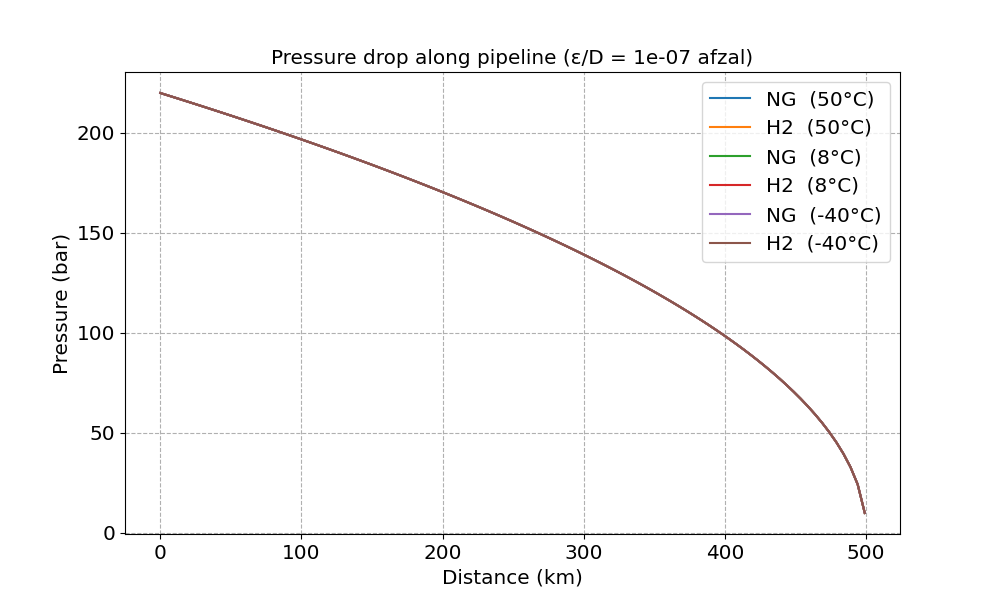
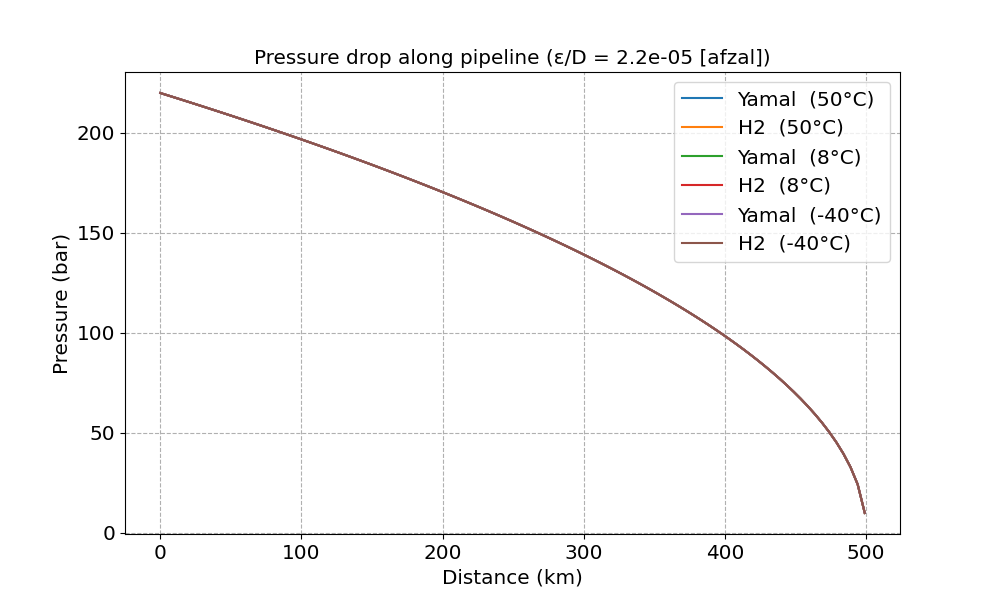
starting to do Yamal pipeline

Changed region(s): [[0.682, 0.15, 0.899, 0.42], [0.248, 0.06, 0.775, 0.12]]

diff --git a/moody.py b/moody.py
@@ -451,54 +451,48 @@ def plot_pt_diagram(title, filename, plot="loglog", fff=colebrook, gradient=Fals
         plt.savefig(filename)
         
 @memoize
-def pint(x, g, P0, f, rr):
+def d_pipe(x, g, P0, f, rr):
+    r""" Equation 36
+    \begin{equation}
+    \label{eqn:force9a}
+    \frac{\delta P}{\delta x} =     \frac{Z f}{2 D \left[  \frac{Z}{P} - \frac{P}{B} -  \left( \frac{\partial Z}{\partial P} \right)_T   \right]}
+    \end{equation}
+    
+    Yamal data
+    """
+
+    
+@memoize
+def pint(x, g, P0):
     L = 500e3 + 1
   
     p = P0 * np.sqrt(L - x)/np.sqrt(L)
     return p
     
 @memoize
-def d_pint(x, g, P0, f, rr):
+def d_pint(x, g, P0, f, rr, D):
     delta_x = 0.1
-    p1 = pint(x-delta_x, g, P0, f, rr)
-    p2 = pint(x+delta_x, g, P0, f, rr)
+    p1 = pint(x-delta_x, g, P0)
+    p2 = pint(x+delta_x, g, P0)
     return (p2 - p1)/(2 * delta_x)
     
-def int_d_pint(L, g, P0, f, rr):
+def int_d_pint(L, g, P0, f, rr, D):
     """Given that we have only a pressure gradient, calculate the pressure drop
     as an integral of that"""
-    original = pint(L, g, P0, f, rr)
-
-
-    # I_quad, est_err_quad =  quad(d_pint, 0, np.pi)
-    # print(I_quad)
-    # err_quad = 2 - I_quad
-    # print(est_err_quad, err_quad)
-    
-    p, est_err_quad = quad(d_pint, 2, L, args=(g, P0, f, rr))
+    original = pint(L, g, P0)
+   
+    p, est_err_quad = quad(d_pint, 2, L, args=(g, P0, f, rr, D))
     p = p + P0
     
-    print(f"{int(L/1000):5} km {p:8.3f} bar  {original:8.3f} bar     {p-original:9.3f}")
+    # print(f"{int(L/1000):5} km {p:8.3f} bar  {original:8.3f} bar     {p-original:9.3f}")
     return p
     
-    p = P0
-    x_step = L/1000
-    l_range =np.arange(2, L, x_step)
-
-    for x in l_range:
-        #d = (d_pint(x-x_step, g, p, f, rr) + d_pint(x+x_step, g, p, f, rr))/2
-        d =  d_pint(x+x_step, g, p, f, rr)
-        p += d * x_step
-        # print(f"{int(L/1000)} km  {x:9.1f} m  {p:.3f} bar {d:.3f} bar")
-    original = pint(L, g, P0, f, rr)
-    print(f"{int(L/1000):5} km {p:8.3f} bar  {original:8.3f} bar     {p-original:9.3}")
-    return p
-        
         
 def plot_pipeline(title_in, output, plot="linear", fff=afzal):
     # Derived from plot_pt_diagram(), all need refactoring
     global P, T
-    rr0 = 1e-7
+    D = 1.3863 # m
+    rr0 = 2.2e-5 # Yamal
     x_range = np.linspace(1,500e3-1000, 100) # 500 km
     P0 = 220 # bar
 
@@ -510,7 +504,7 @@ def plot_pipeline(title_in, output, plot="linear", fff=afzal):
         plt.figure(figsize=(10, 6))
 
         fn = f"{f.__name__}"
-        title = title_in + f" (ε/D = {rr0} {fn})"
+        title = title_in + f" (ε/D = {rr0} [{fn}])"
         filename = output + "_" + fn + ".png"
         
         for t in [50, 8, -40]:
@@ -519,10 +513,10 @@ def plot_pipeline(title_in, output, plot="linear", fff=afzal):
             # Calculate the curves 
 
             p_x = {}
-            for g in ['NG', 'H2']:
-                label = f"{g} " + lab
+            for g in ['Yamal', 'H2']:
+                label = f"{g:5} " + lab
                 print(label)
-                p_x[T] = [pint(x, g, P0, f, rr0) for x in x_range]
+                p_x[T] = [pint(x, g, P0) for x in x_range]
                 
                 # Plot the calculated curves on the Moody diagram
                 if plot == "loglog":
@@ -546,7 +540,7 @@ def plot_pipeline(title_in, output, plot="linear", fff=afzal):
         
         plt.figure(figsize=(10, 6))
         fn = f"{f.__name__}"
-        title = title_in + f" (ε/D = {rr0} {fn})"
+        title = title_in + f" (ε/D = {rr0} [{fn}])"
         filename = output + "_D_" + fn + ".png"
         
         for t in [50, 8, -40]:
@@ -555,10 +549,10 @@ def plot_pipeline(title_in, output, plot="linear", fff=afzal):
             # Calculate the curves 
 
             p_x = {}
-            for g in ['NG', 'H2']:
-                label = f"{g} " + lab
+            for g in ['Yamal', 'H2']:
+                label = f"{g:5} " + lab
                 print(label)
-                p_x[T] = [d_pint(x, g, P0, f, rr0)*1e3 for x in x_range]
+                p_x[T] = [d_pint(x, g, P0, f, rr0, D)*1e3 for x in x_range]
                 
                 # Plot the calculated curves on the Moody diagram
                 if plot == "loglog":
@@ -582,7 +576,7 @@ def plot_pipeline(title_in, output, plot="linear", fff=afzal):
         
         plt.figure(figsize=(10, 6))
         fn = f"{f.__name__}"
-        title = title_in + f" (ε/D = {rr0} {fn})"
+        title = title_in + f" (ε/D = {rr0} [{fn}])"
         filename = output + "_I_" + fn + ".png"
         
         for t in [50, 8, -40]:
@@ -591,10 +585,10 @@ def plot_pipeline(title_in, output, plot="linear", fff=afzal):
             # Calculate the curves 
 
             p_x = {}
-            for g in ['NG', 'H2']:
-                label = f"{g} " + lab
+            for g in ['Yamal', 'H2']:
+                label = f"{g:5} " + lab
                 print(label)
-                p_x[T] = [int_d_pint(x, g, P0, f, rr0) for x in x_range]
+                p_x[T] = [int_d_pint(x, g, P0, f, rr0, D) for x in x_range]
                 
                 # Plot the calculated curves on the Moody diagram
                 if plot == "loglog":

diff --git a/peng.py b/peng.py
@@ -1451,7 +1451,7 @@ def print_some_gas_data(plot_gases, visc_f, P, dp=None):
         
     print(f"\nDensity of gas (kg/m³) at {pstr}")
     for T in [T273, T15C, T_yamal]:
-        print(f"{'gas':13}{'Mw(g/mol)':6}  {'ϱ(kg/m³)':5}  {'μ(Pa.s)':5}    {'Z (-)':5}      {'Hc(MJ/mol)':5}  T={T-T273:.1f}°C ")
+        print(f"{'gas':13}{'Mw(g/mol)':6}  {'ϱ(kg/m³)':5}  {'μ(Pa.s)':5}    {'Z (-)':5}      {'Hc(MJ/mol)':5}   Pc (bar)     Tc (K) T={T-T273:.1f}°C ")
         for g in plot_gases:
             print_density(g, P, T, visc_f)
 
@@ -1471,7 +1471,7 @@ def print_some_gas_data(plot_gases, visc_f, P, dp=None):
             #re = D ϱ v / mu
             re = v * (ϱ_H2/ϱ_ng) / (μ_H2/μ_ng)
             gp = f"(H2)/({g})"
-            print(f"v{gp: <15}= {v:0.4f}  Re{gp: <15} = {re:0.4f} ({pstr} T={T-T273:.1f}°C )")
+            print(f"v{gp: <13}= {v:0.4f}  Re{gp: <13} = {re:0.4f} ({pstr} T={T-T273:.1f}°C )")
         
         
       
